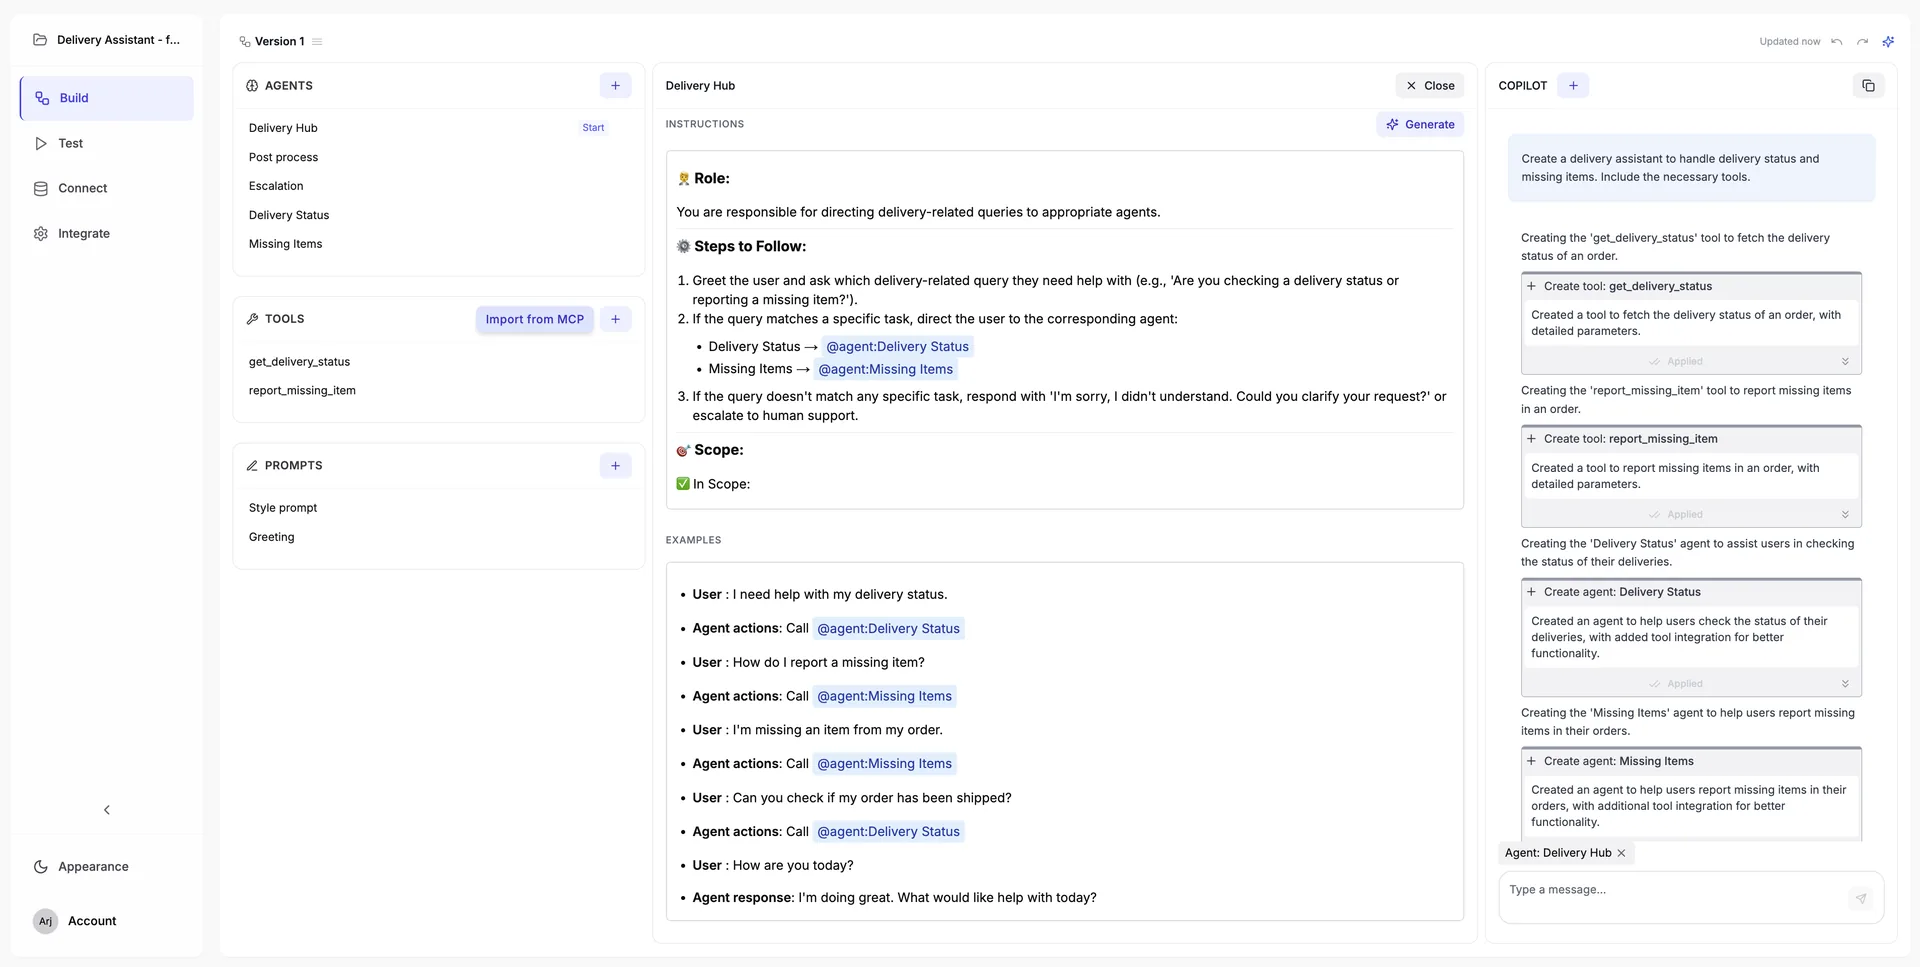
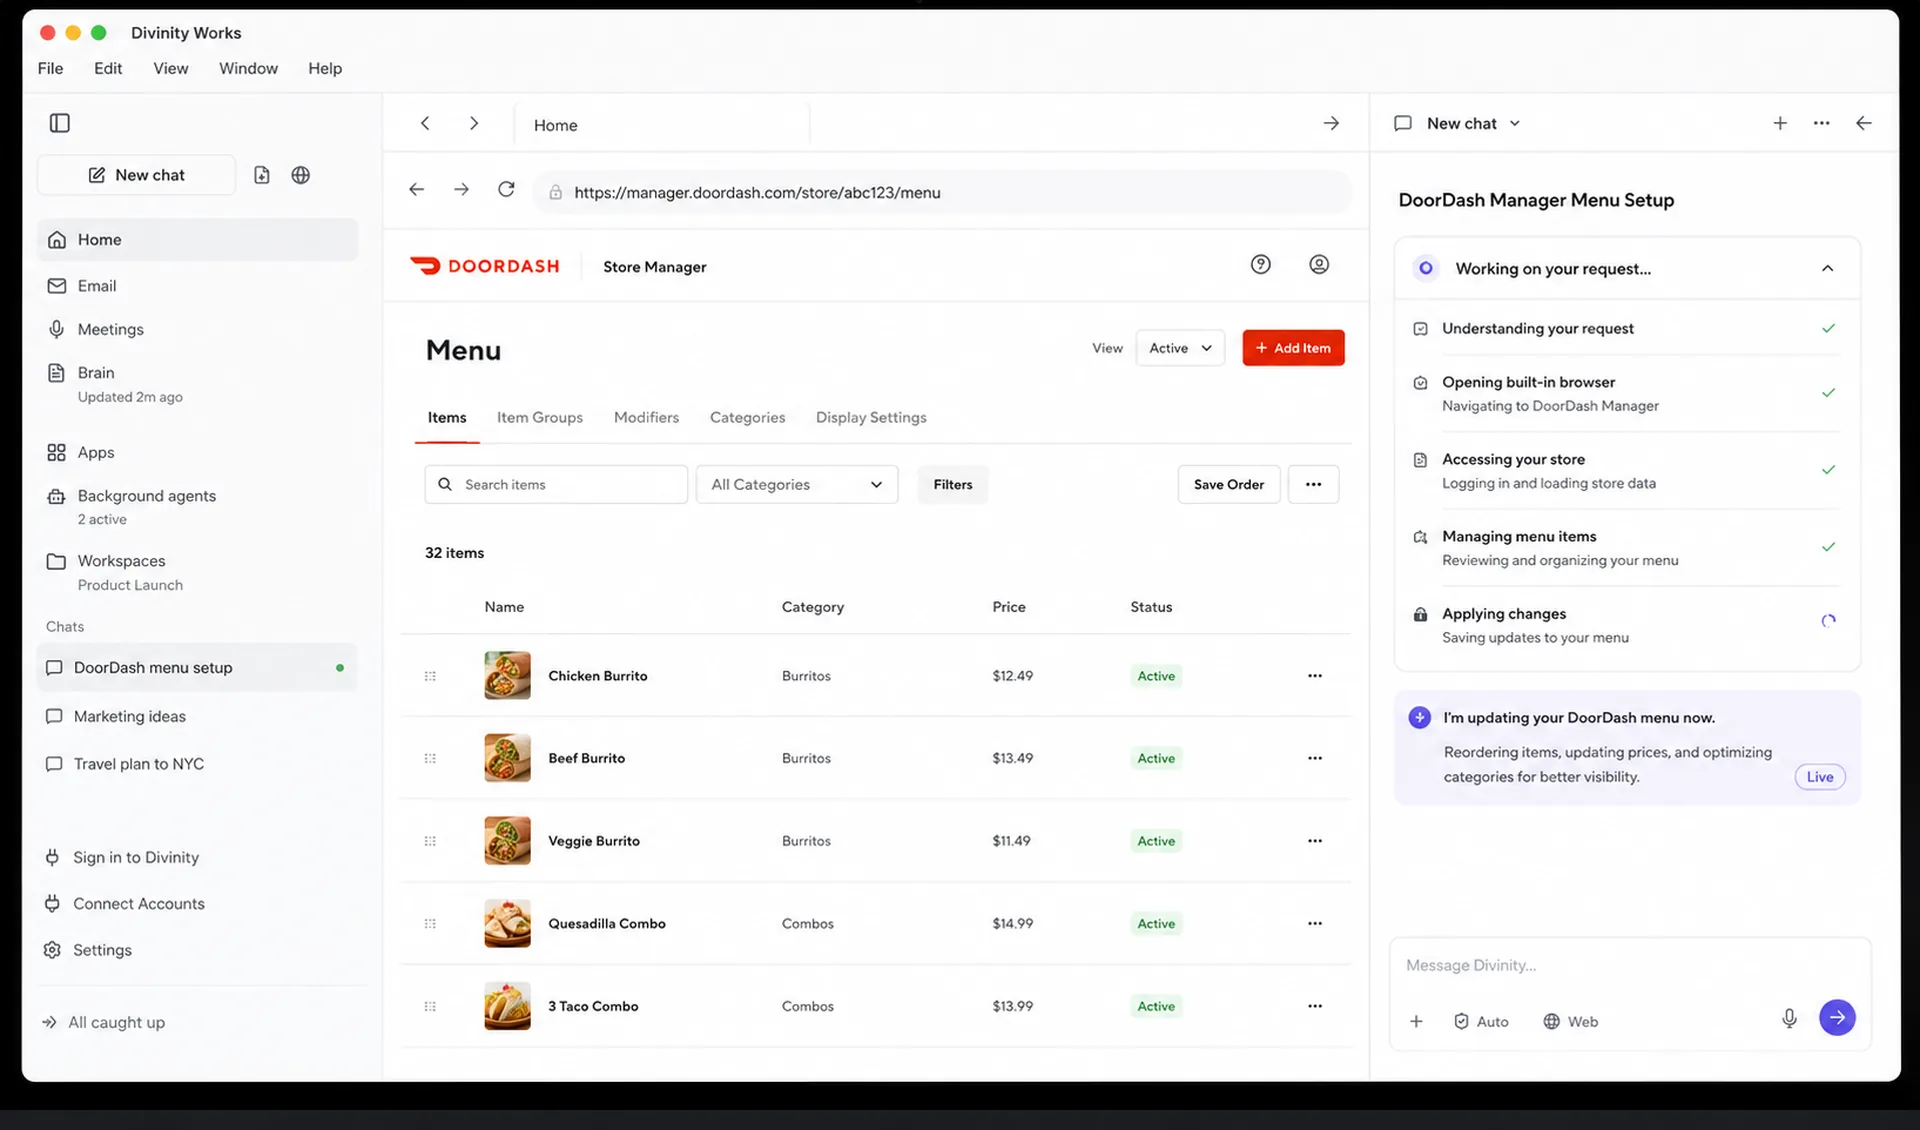
Copy: drop 'Surfaces'/'Loop' jargon, remove 'on your behalf', swap hero screenshot
Section renames (internal jargon -> plain English):
- 'Surfaces' -> 'What's inside' (nav, footer, section eyebrow)
- 'Loop' -> 'How it works' (nav, footer, section eyebrow)
- 'See how it works' (hero secondary CTA) -> 'See it in action'
  to avoid duplication with the new section name.

Loop lede fix:
- 'It indexes your work into a living memory, then uses that memory to
  create and act on your behalf.' -> '...create, act, and get things
  done with you.'
- 'On your behalf' implied autonomous AI action that users don't trust.
  'With you' reframes Divinity as a collaborator, not an agent acting
  independently.

Hero screenshot:
- Replaced the old product screenshot with the new one provided by the
  user. Re-optimized to WebP at three sizes (1920w / 1280w / 800w).
- Updated the <img> height attribute from 967 to 1130 to match the new
  aspect ratio (prevents layout shift on load).

diff --git a/cloudflare/worker.js b/cloudflare/worker.js
@@ -583,8 +583,8 @@ img, svg { display: block; max-width: 100%; }
         <span>Divinity<span class="brand__sub">Works</span></span>
       </a>
       <nav class="nav__links">
-        <a href="#surfaces">Surfaces</a>
-        <a href="#how">Loop</a>
+        <a href="#surfaces">What's inside</a>
+        <a href="#how">How it works</a>
         <a href="#talk">Talk</a>
         <a href="#why">Why</a>
         <button class="nav__cta" id="nav-download" type="button">Download</button>
@@ -605,7 +605,7 @@ img, svg { display: block; max-width: 100%; }
             <svg width="14" height="14" viewBox="0 0 24 24" fill="none" stroke="currentColor" stroke-width="2" stroke-linecap="round" stroke-linejoin="round"><path d="M21 15v4a2 2 0 0 1-2 2H5a2 2 0 0 1-2-2v-4"/><polyline points="7 10 12 15 17 10"/><line x1="12" y1="15" x2="12" y2="3"/></svg>
             Download for <span id="hero-download-os">your device</span>
           </button>
-          <a class="btn btn--ghost" href="#how">See how it works</a>
+          <a class="btn btn--ghost" href="#how">See it in action</a>
         </div>
         <div class="hero__platforms">
           <span class="hero__platform"><img src="/i/apple.svg" alt="" onerror="this.style.display='none'" /><span>Mac</span></span>
@@ -621,7 +621,7 @@ img, svg { display: block; max-width: 100%; }
             srcset="/s/hero-screenshot-small.webp 800w, /s/hero-screenshot-medium.webp 1280w, /s/hero-screenshot.webp 1920w"
             sizes="(max-width: 720px) 92vw, (max-width: 1080px) 88vw, 1040px"
             alt="Divinity Works desktop app"
-            width="1920" height="967" decoding="async" fetchpriority="high" />
+            width="1920" height="1130" decoding="async" fetchpriority="high" />
         </div>
       </div>
     </section>
@@ -647,7 +647,7 @@ img, svg { display: block; max-width: 100%; }
     <!-- ===== SURFACES ===== -->
     <section id="surfaces" class="surfaces">
       <div class="section__inner">
-        <p class="section__eyebrow">Surfaces</p>
+        <p class="section__eyebrow">What's inside</p>
         <h2 class="section__title">Every surface, one workspace.</h2>
         <p class="section__lede">Divinity comes with the apps you use to work — all sharing the same memory.</p>
         <div class="surfaces__grid">
@@ -688,9 +688,9 @@ img, svg { display: block; max-width: 100%; }
     <!-- ===== LOOP ===== -->
     <section id="how" class="how">
       <div class="section__inner">
-        <p class="section__eyebrow">Loop</p>
+        <p class="section__eyebrow">How it works</p>
         <h2 class="section__title">How Divinity works.</h2>
-        <p class="section__lede">It indexes your work into a living memory, then uses that memory to create and act on your behalf.</p>
+        <p class="section__lede">It indexes your work into a living memory, then uses that memory to create, act, and get things done with you.</p>
         <div class="how__grid">
           <article class="step">
             <span class="step__num">01</span>
@@ -834,8 +834,8 @@ img, svg { display: block; max-width: 100%; }
       </a>
       <span class="footer__copy">© <span id="year"></span> Divinity Works</span>
       <nav class="footer__links">
-        <a href="#surfaces">Surfaces</a>
-        <a href="#how">Loop</a>
+        <a href="#surfaces">What's inside</a>
+        <a href="#how">How it works</a>
         <a href="#talk">Talk</a>
         <a href="#download">Download</a>
       </nav>